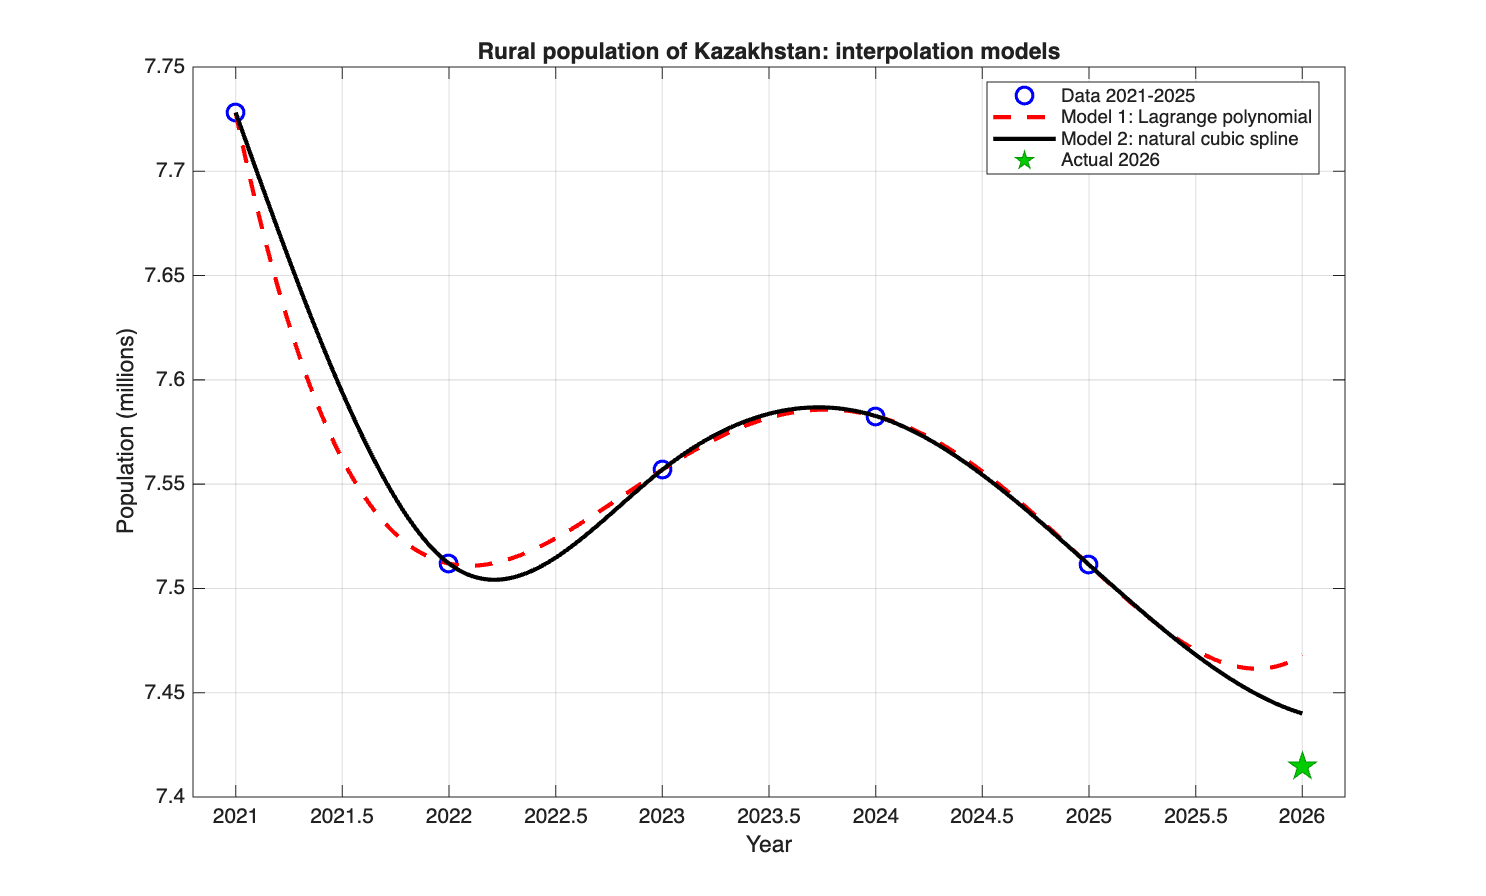
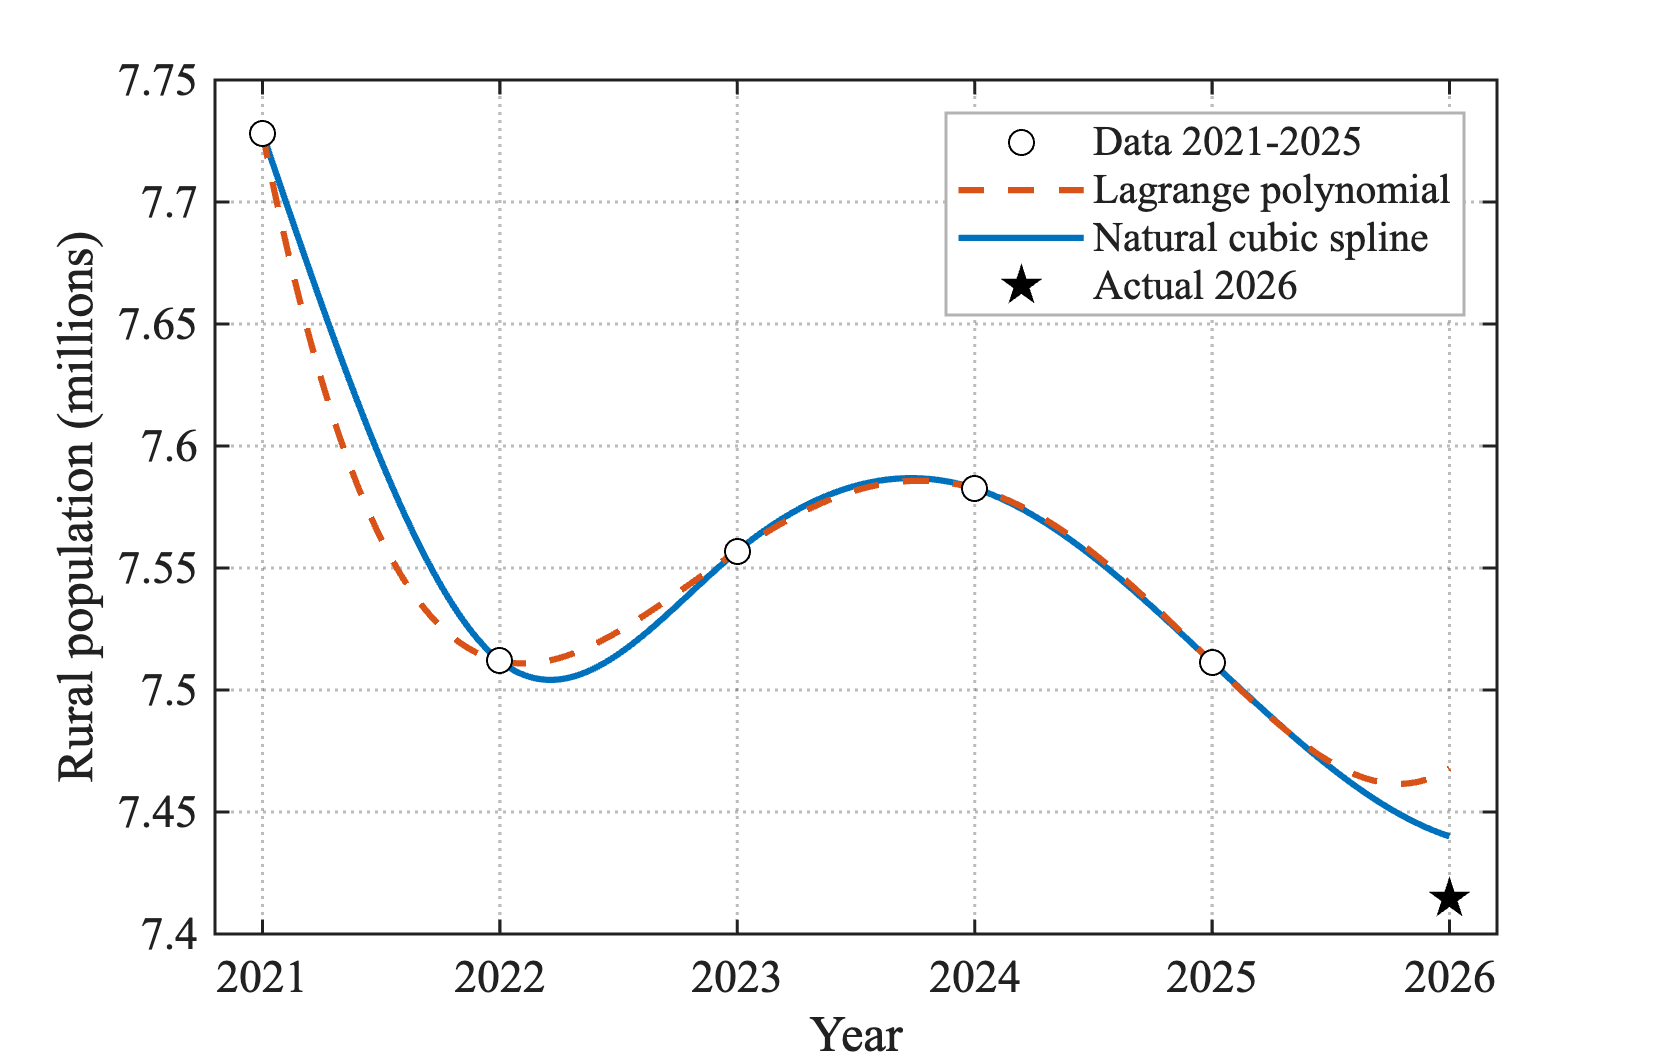
Replace old figures and results with the new MATLAB run
Rename the uploaded 'figures 2' and 'results 2.txt' to the normal
names, update the report figures, and describe the layout in README.

Claude-Session: https://claude.ai/code/session_01PQhWAbhpUbz1oZRPYUZVJD

diff --git a/README.md b/README.md
@@ -5,7 +5,17 @@
 1. Open MATLAB and set the **Current Folder** to the `code` folder.
 2. Type `main` in the Command Window.
 
-All results are printed to the Command Window and saved in `code/results.txt`. All figures are saved as PNG files in `code/figures/`. The full paths are printed at the end of the run.
+All results are printed to the Command Window and saved in `code/results.txt`. All figures are saved as PNG files (300 dpi) in `code/figures/`. The full paths are printed at the end of the run.
+
+## Repository layout
+
+| Folder / file | Contents |
+|---|---|
+| `code/` | the 24 MATLAB `.m` files (this is what we submit as the code) |
+| `figures/`, `results.txt` | output of our MATLAB run, used in the report |
+| `report/` | LaTeX report draft with all result tables and figures filled in |
+| `report_template/` | empty LaTeX template with the NU title page (gold logo, Palatino 11pt) |
+| `*.pdf` | project description and lecture slides |
 
 Each task can also be run on its own (`task1_interpolation`, `task2_backtesting`, `task3_sensitivity`, `task4_rootfinding`, `task6_rural`, `task7_urban`). Task 5 is a literature discussion and has no code.
 
@@ -28,6 +38,7 @@ Each task can also be run on its own (`task1_interpolation`, `task2_backtesting`
 | `year_to_date.m` | Converts t (years) to year + month | Helper |
 | `project_population.m` | 2028/2030 projections + plot (Tasks 6, 7) | Helper |
 | `save_figure.m` | Saves the current figure into `code/figures/` (300 dpi) | Helper |
+| `format_figure.m` | Common figure style (Times 11 pt, 14 x 9 cm, light grid) | Helper |
 | `task1_...m` to `task7_...m`, `main.m` | One script per task, `main` runs all | — |
 
 ## Modifications to the lecture code (explain these in the report)
